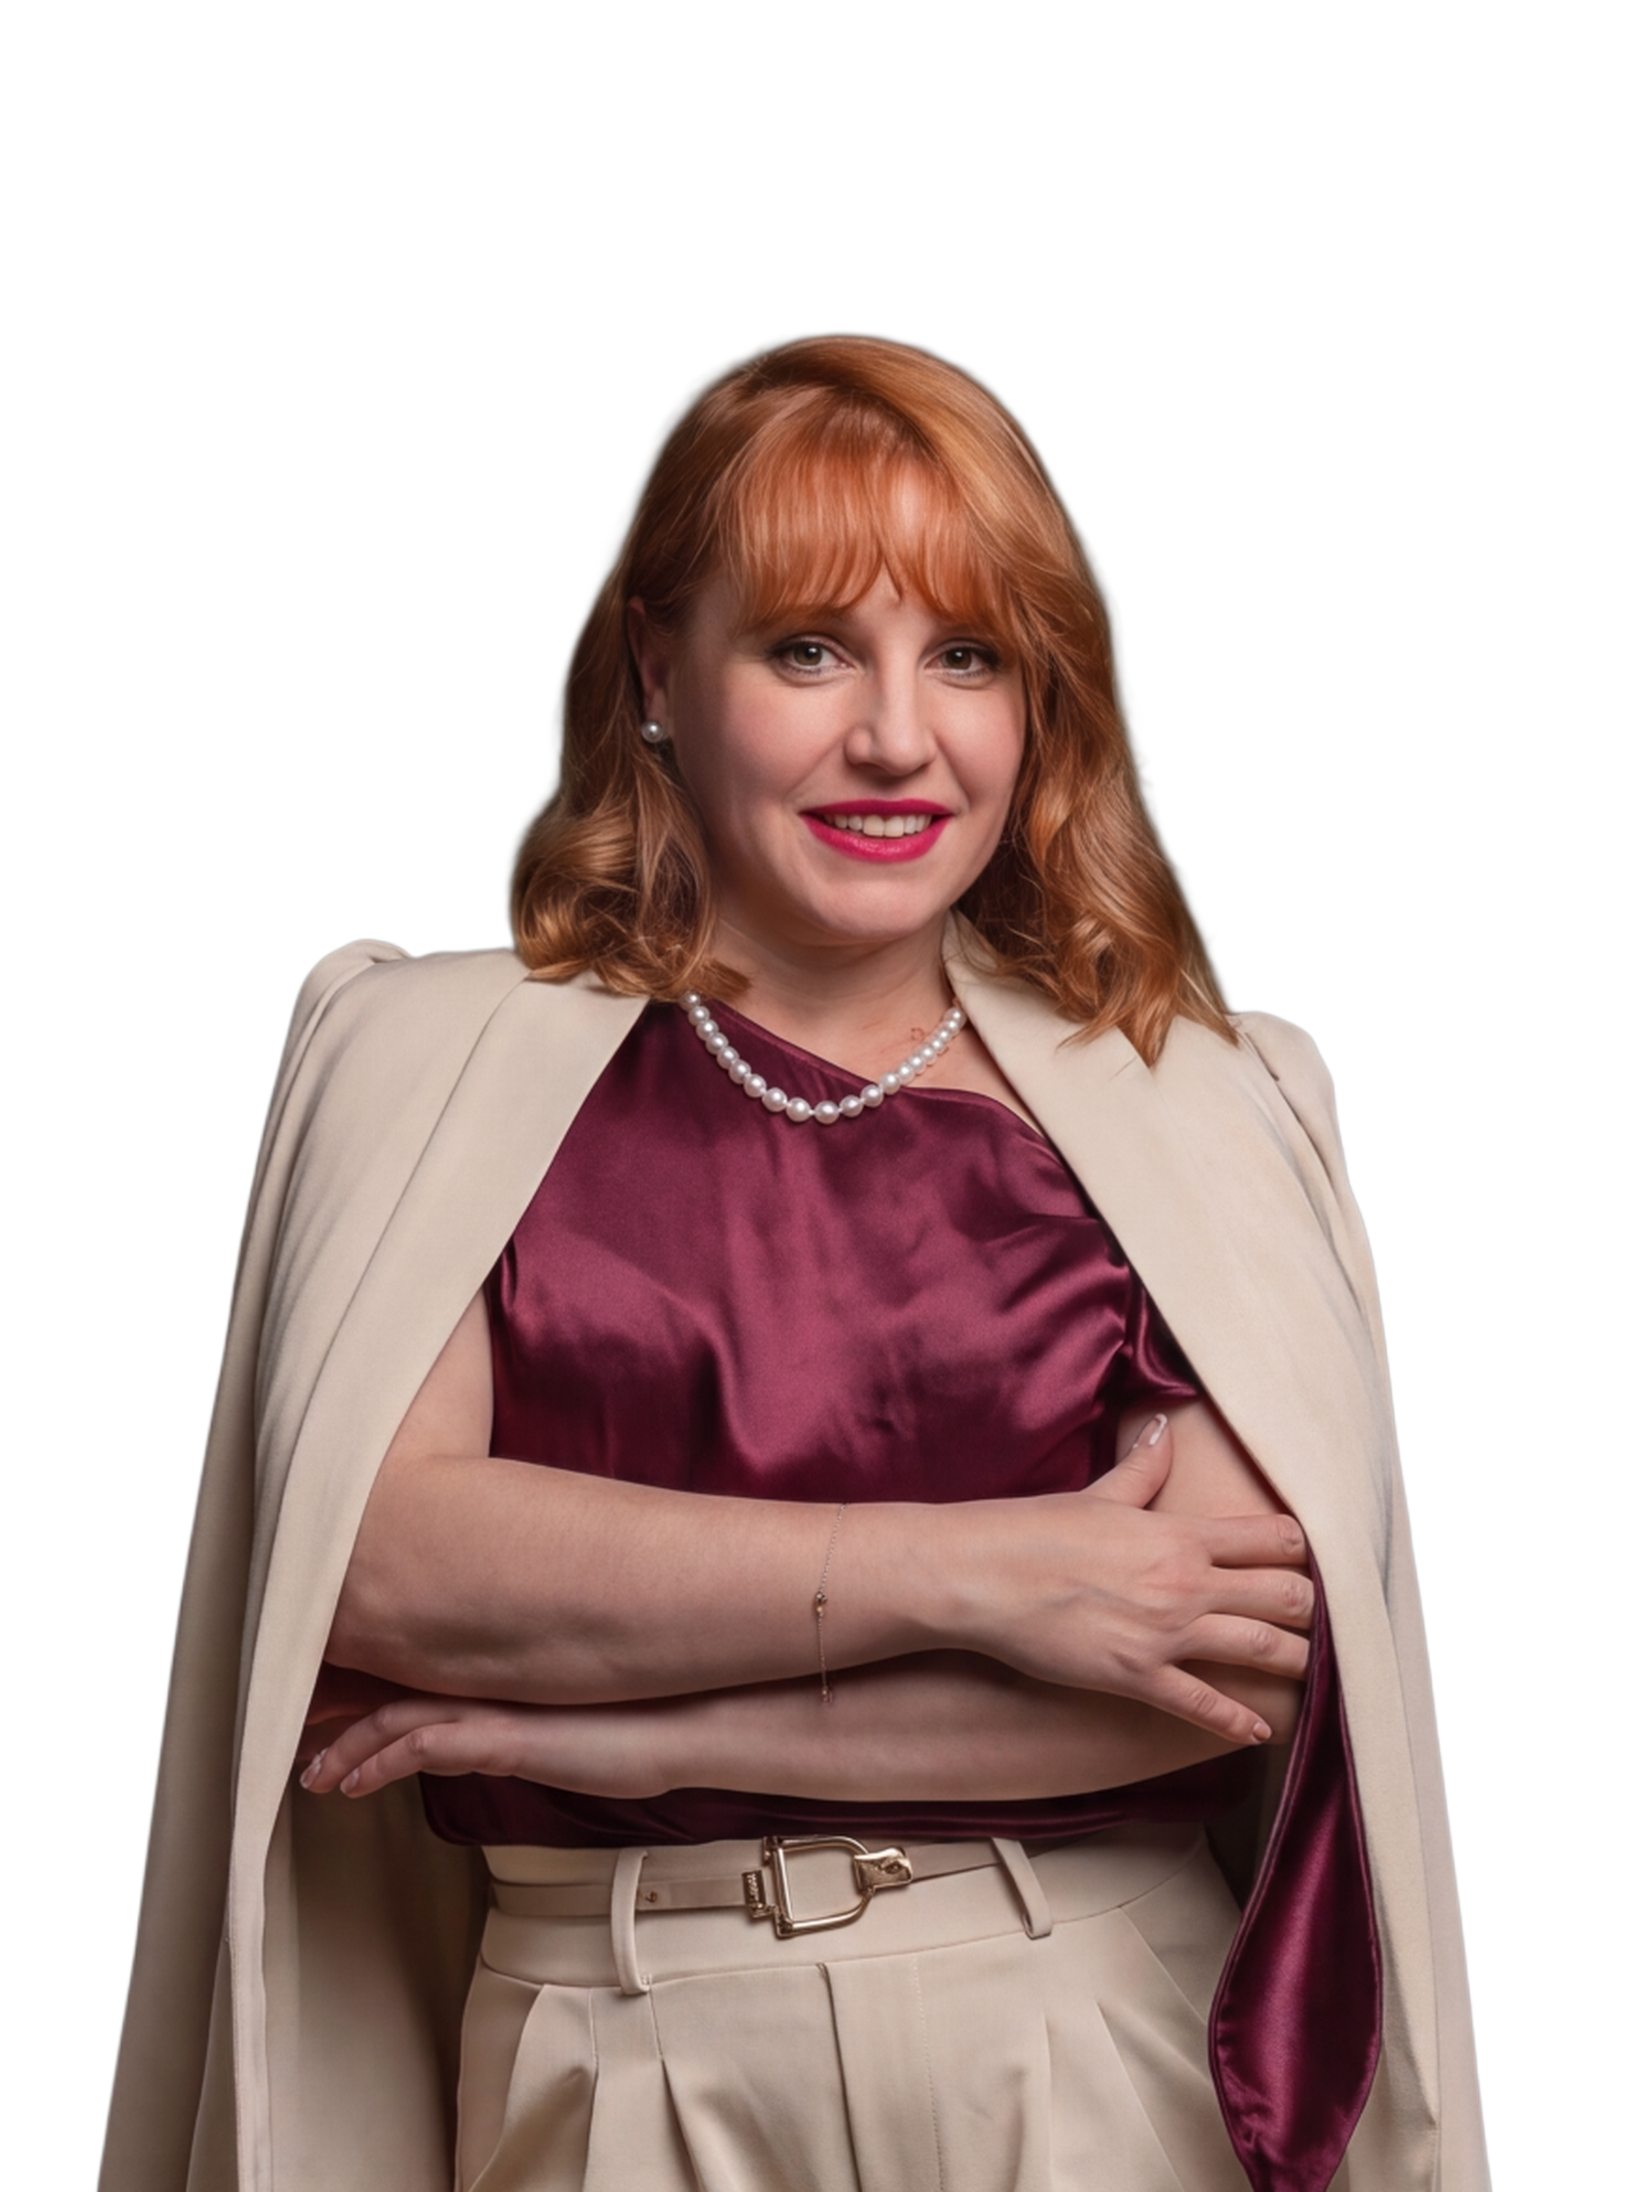
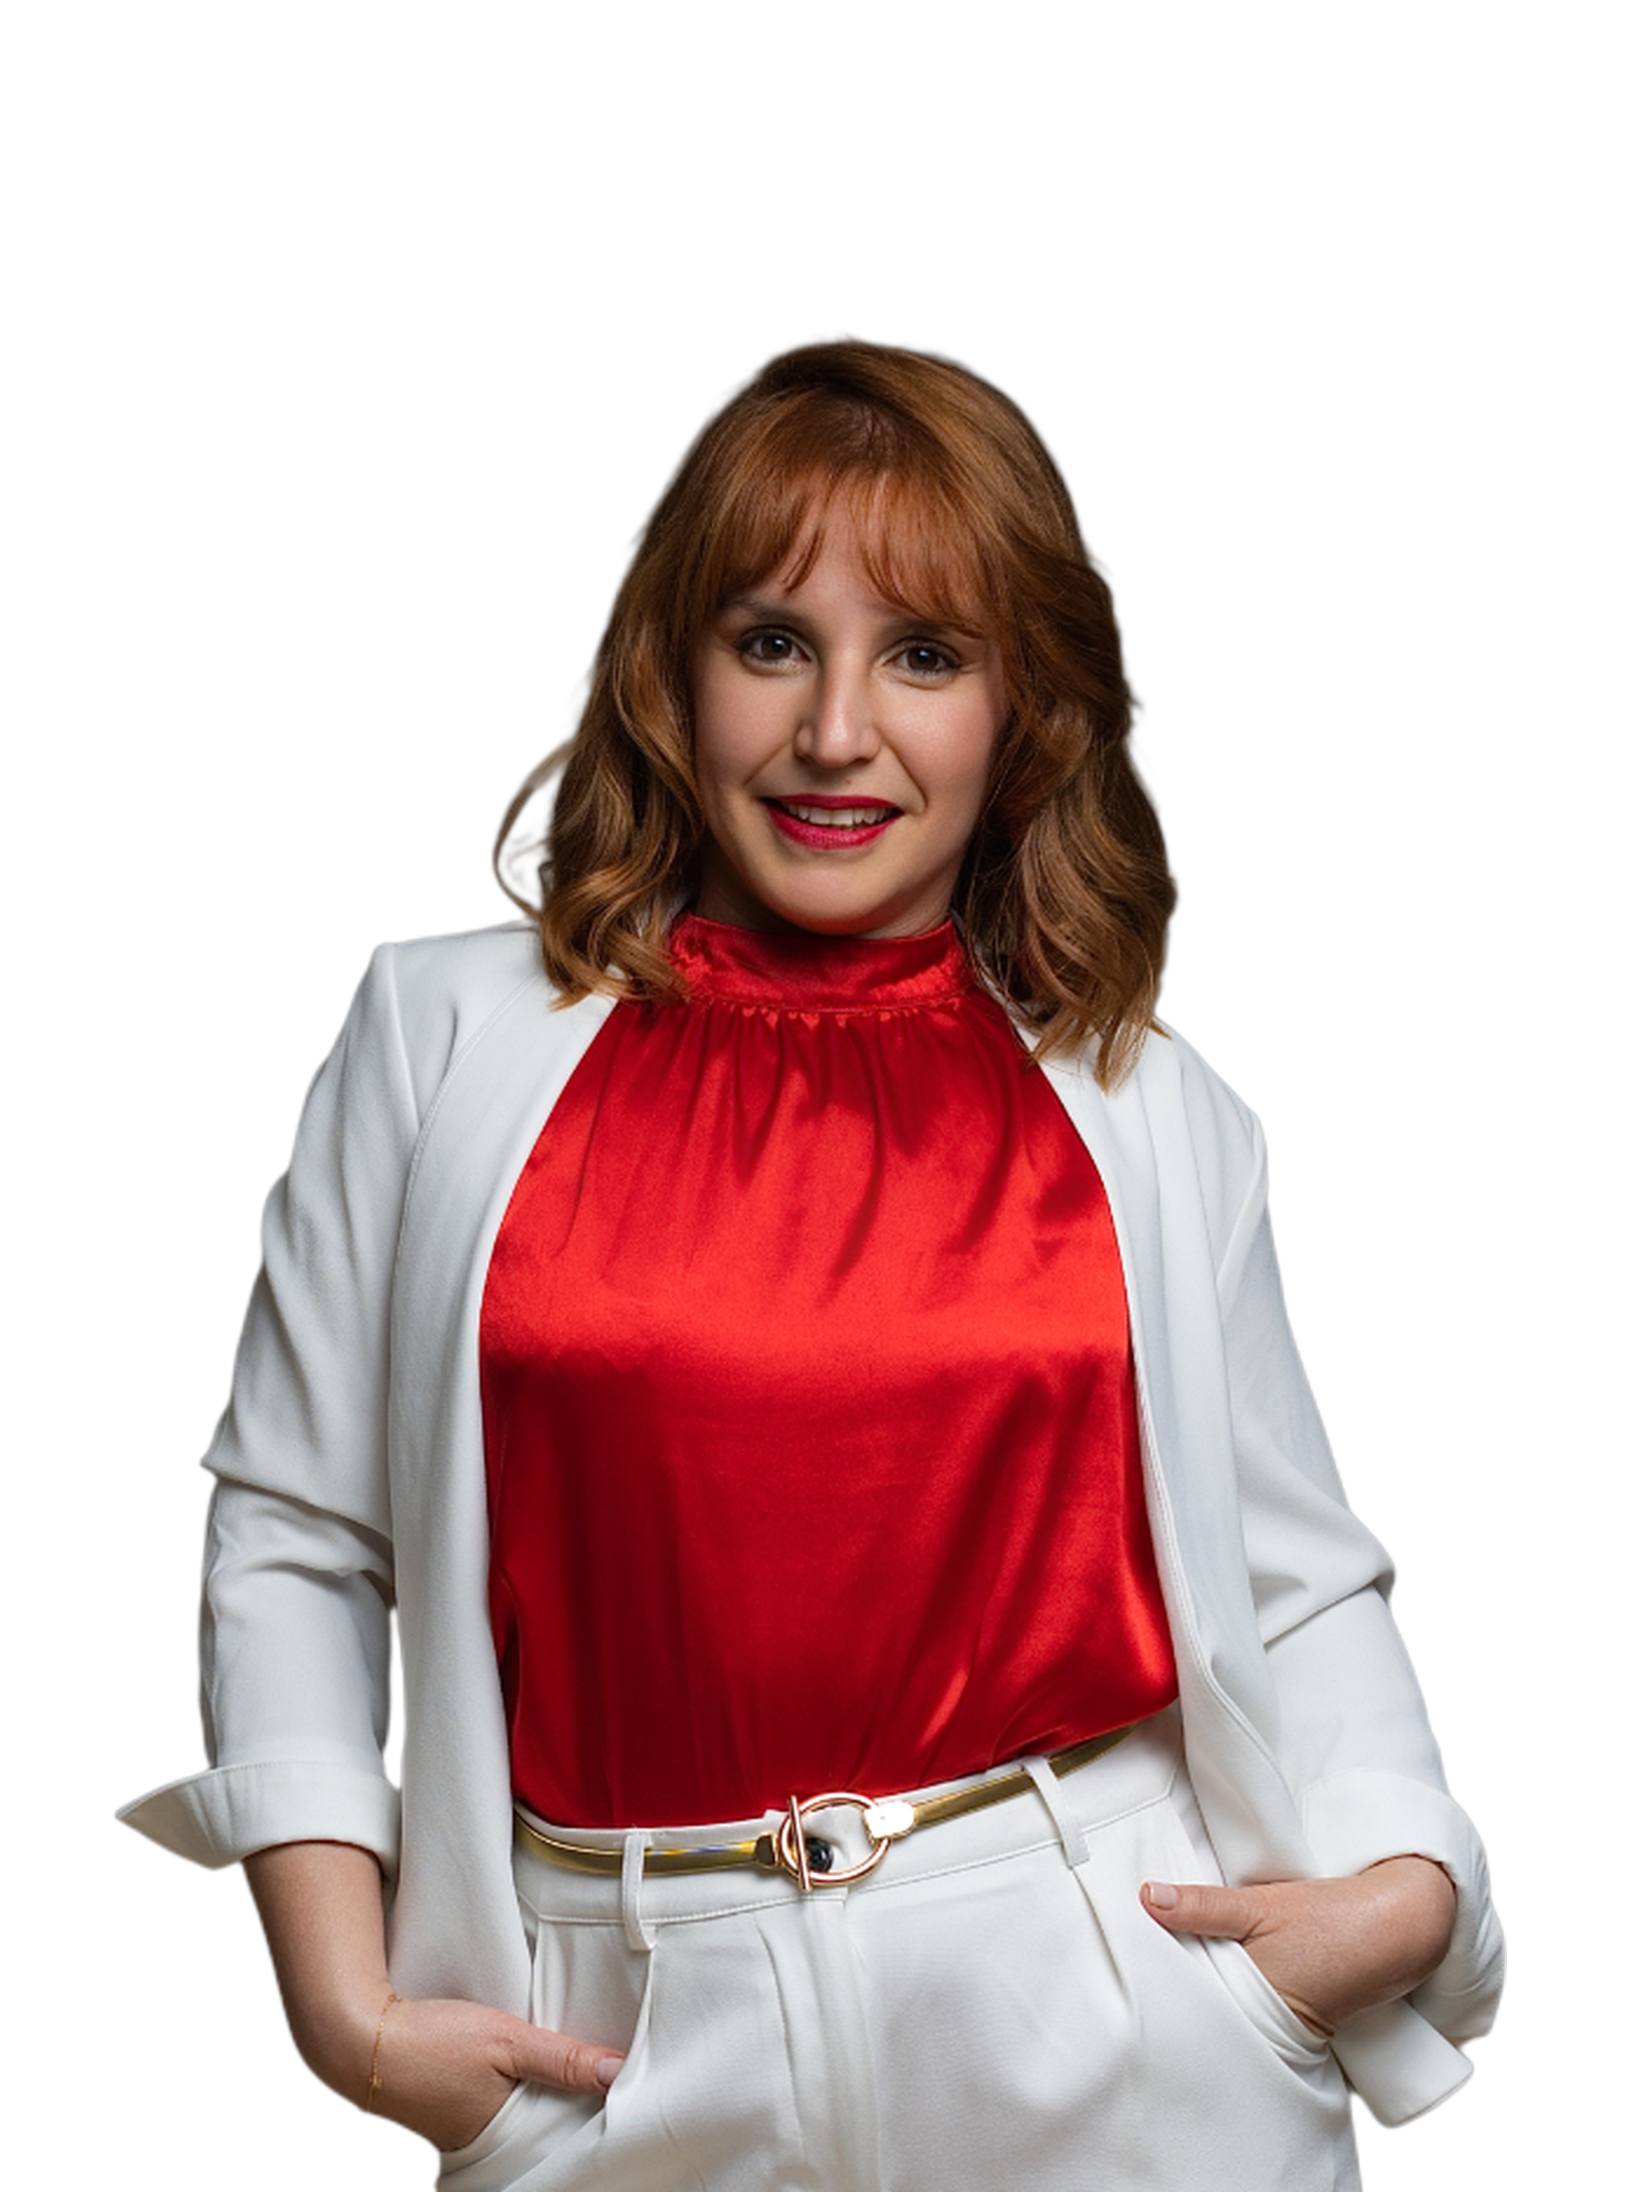
Update Lizandra Parra portrait photo

diff --git a/src/data/agentsData.ts b/src/data/agentsData.ts
@@ -257,8 +257,8 @@ export const AGENTS_DATA: Agent[] = [
     licenseNumber: "311105",
     phone: "(786) 818-8531",
     email: "realestate@lizandraparra.com",
-    photoUrl: "/assets/agents/lizandra-parra-rodriguez.jpg",
-    photoNobgUrl: "/assets/agents/lizandra-parra-rodriguez-nobg.png",
+    photoUrl: "/assets/agents/lizandra-parra-rodriguez.jpg?v=2",
+    photoNobgUrl: "/assets/agents/lizandra-parra-rodriguez-nobg.png?v=2",
     bio: "",
     specialties: [],
     languages: ["English", "Spanish"],
